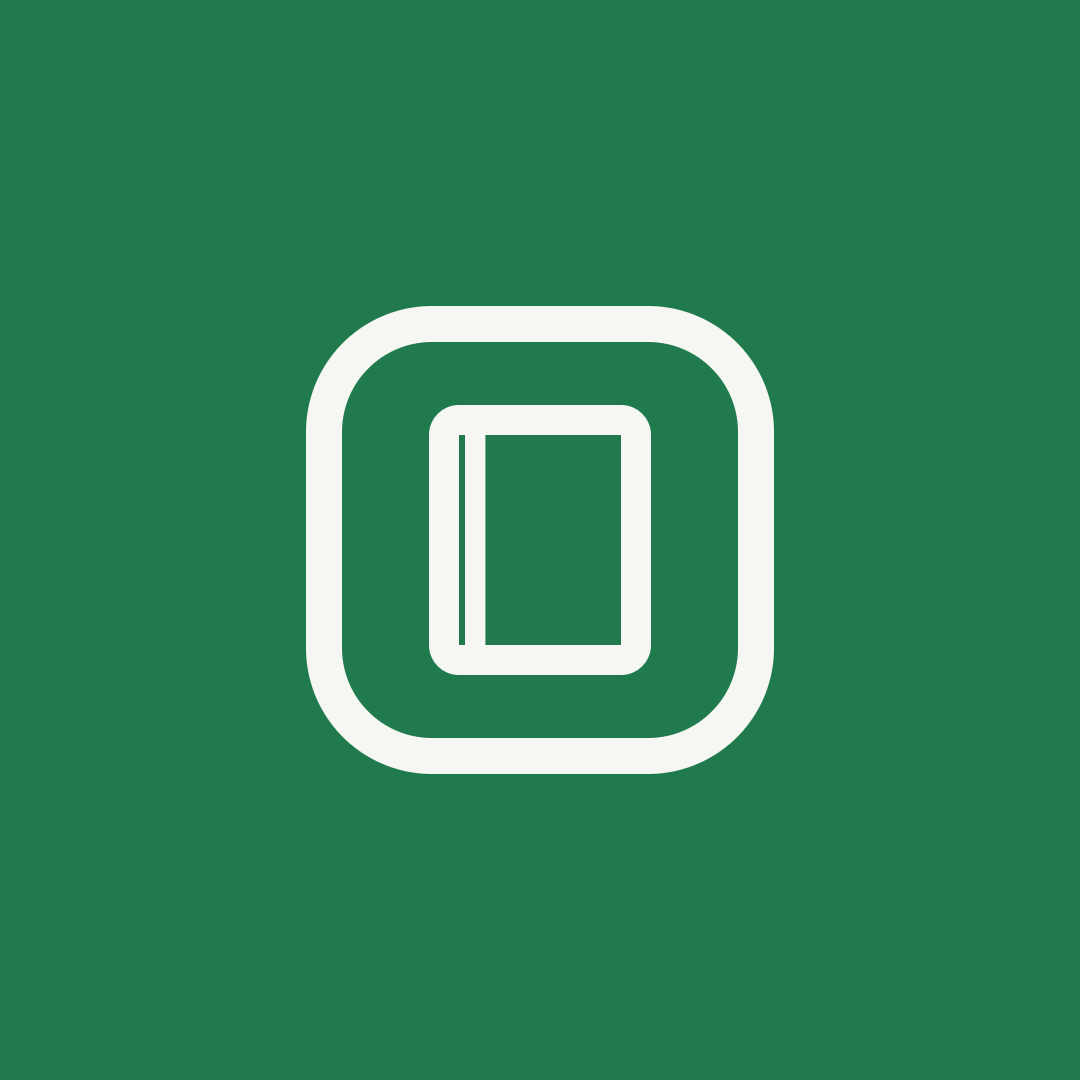
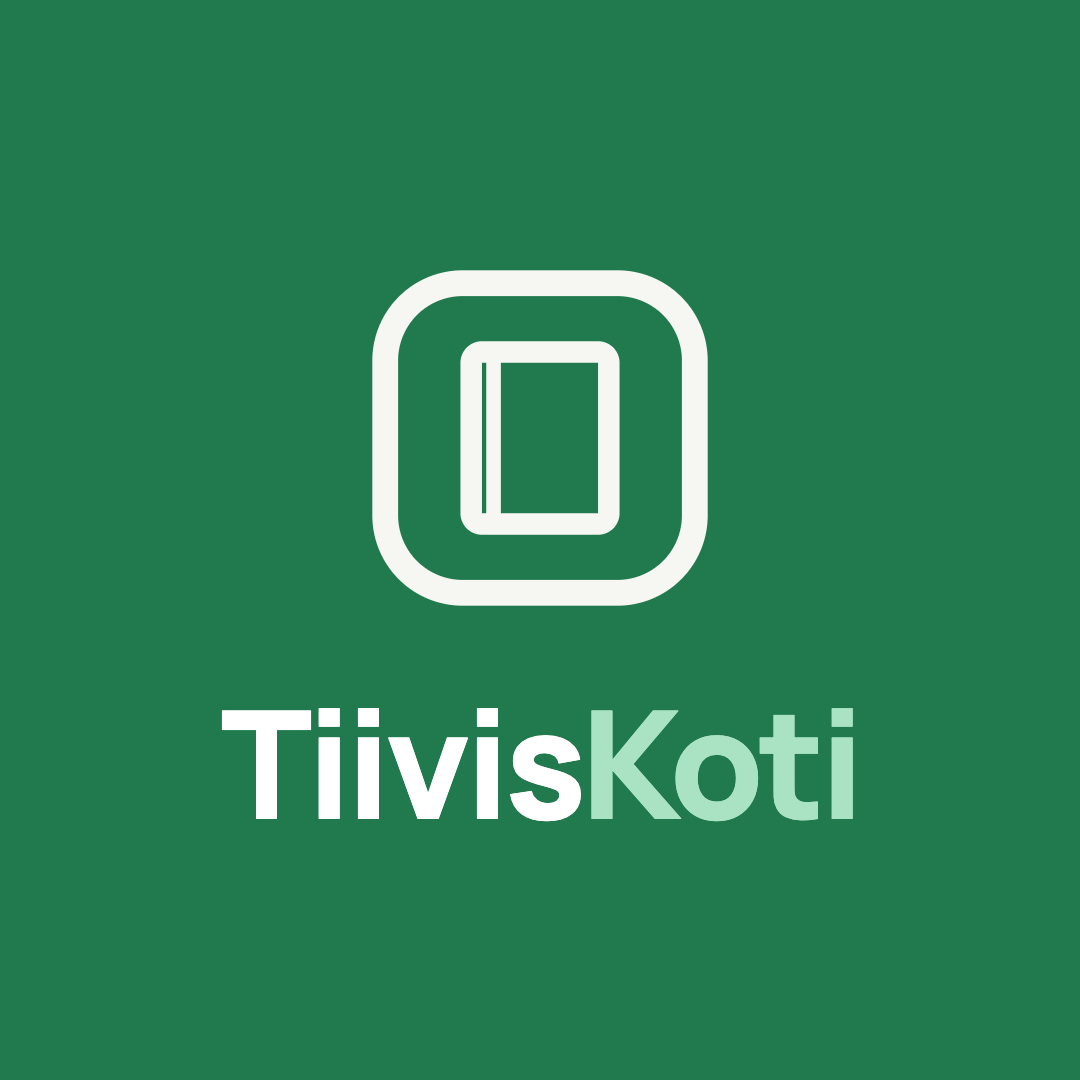
Facebook: uusi kansikuva ja profiilikuva
Kansikuva: porukka kirkkaana oikealla (vanha peitti kuvan 80–93 % tummennuksella),
teksti omalla paneelilla, hinnat ajan tasalle (ikkuna alk. 75 €, ulko-ovi 99 €)
ja uusi numero 045 7831 1972. Profiilikuva: merkki + TiivisKoti-nimi alla Manropella.

Changed region(s): [[0.1833, 0.2444, 0.7944, 0.7639]]

diff --git a/tiiviskoti/brand/ads/fb-profiili.html b/tiiviskoti/brand/ads/fb-profiili.html
@@ -37,45 +37,50 @@
 body{background:#8f9a92;font-family:Manrope,system-ui,sans-serif;
   display:flex;flex-direction:column;gap:36px;padding:36px;align-items:flex-start}
 
-/* ---------- PROFIILIKUVA ---------- */
-#fb-profiili{width:1080px;height:1080px;background:var(--green);
-  display:flex;align-items:center;justify-content:center;flex:none}
-#fb-profiili svg{width:600px;height:600px;display:block}
+/* ---------- PROFIILIKUVA ----------
+   14.10.2026 Josua: nimi logon alle meidän fontilla (vrt. AaltoAirin logo).
+   Kaikki pysyy ympyrän sisään piirretyn neliön (≈70 %) sisällä. */
+#fb-profiili{width:1080px;height:1080px;background:var(--green);flex:none;
+  display:flex;flex-direction:column;align-items:center;justify-content:center;gap:34px}
+#fb-profiili svg{width:430px;height:430px;display:block;margin-top:-20px}
+#fb-profiili .wm{font-size:150px;font-weight:800;letter-spacing:-.035em;line-height:1;color:#fff}
+#fb-profiili .wm i{font-style:normal;color:#A9E3C3}
 
 /* ympyrärajauksen apuviiva — ei renderöidy PNG:hen, vain esikatseluun */
 .guide{position:absolute;inset:0;border-radius:50%;
   border:2px dashed rgba(255,255,255,.35);pointer-events:none}
 .wrapguide{position:relative;flex:none}
 
-/* ---------- KANSIKUVA ---------- */
-#fb-kansikuva{width:1640px;height:856px;position:relative;overflow:hidden;
-  background:var(--deep);flex:none;display:flex;align-items:center;justify-content:center}
-#fb-kansikuva .photo{position:absolute;inset:0;z-index:0}
-#fb-kansikuva .photo img{width:100%;height:100%;object-fit:cover;object-position:50% 42%}
-#fb-kansikuva .scrim{position:absolute;inset:0;z-index:1;
-  background:linear-gradient(180deg,rgba(22,58,40,.86) 0%,rgba(22,58,40,.80) 45%,rgba(22,58,40,.93) 100%)}
+/* ---------- KANSIKUVA ----------
+   14.10.2026: porukka näkyviin. Vanha versio peitti kuvan 80–93 %:n
+   tummennuksella, jolloin kansikuva oli käytännössä vihreä tekstilaatta.
+   Nyt kuva on kirkkaana oikealla ja teksti omalla paneelillaan vasemmalla.
+   Teksti alkaa vasta x≈150:stä (puhelin rajaa reunoja) ja paneelin alaosa
+   on tyhjä, koska työpöydällä profiilikuva peittää vasemman alakulman. */
+#fb-kansikuva{width:1640px;height:856px;position:relative;overflow:hidden;background:var(--deep);flex:none}
+#fb-kansikuva .photo{position:absolute;top:0;right:0;bottom:0;width:1080px}
+#fb-kansikuva .photo img{width:100%;height:100%;object-fit:cover;object-position:62% 40%;display:block}
+#fb-kansikuva .fade{position:absolute;top:0;bottom:0;left:560px;width:260px;
+  background:linear-gradient(90deg,var(--deep) 0%,rgba(22,58,40,.75) 40%,rgba(22,58,40,0) 100%)}
+#fb-kansikuva .panel{position:absolute;left:150px;top:118px;width:560px;
+  display:flex;flex-direction:column;align-items:flex-start}
 
-/* puhelimen näyttämä turva-alue: keskimmäiset 75 % */
-.safe{position:relative;z-index:2;width:75%;text-align:center;
-  display:flex;flex-direction:column;align-items:center;
-  padding-bottom:56px}   /* alalaita tyhjäksi profiilikuvan alle */
+.lockup{display:flex;align-items:center;gap:16px;margin-bottom:46px}
+.lockup svg{width:60px;height:60px;display:block}
+.lockup span{font-size:40px;font-weight:800;color:#fff;letter-spacing:-.02em}
+.lockup span i{font-style:normal;color:#A9E3C3}
 
-.lockup{display:flex;align-items:center;gap:18px;margin-bottom:30px}
-.lockup svg{width:66px;height:66px;display:block}
-.lockup span{font-size:44px;font-weight:800;color:#fff;letter-spacing:-.02em}
-.lockup span i{font-style:normal;color:var(--green-l)}
+#fb-kansikuva h1{font-size:76px;font-weight:800;color:#fff;line-height:1.02;
+  letter-spacing:-.035em;margin-bottom:22px}
+#fb-kansikuva h1 em{font-style:normal;color:#A9E3C3}
+#fb-kansikuva .tag{font-size:27px;font-weight:600;color:var(--dtext);line-height:1.4;margin-bottom:30px}
 
-#fb-kansikuva h1{font-size:82px;font-weight:800;color:#fff;line-height:1.04;
-  letter-spacing:-.03em;margin-bottom:22px}
-#fb-kansikuva .tag{font-size:30px;font-weight:500;color:var(--dtext);margin-bottom:26px}
-
-.facts{display:flex;align-items:center;gap:18px;margin-bottom:28px}
-.fact{background:rgba(255,255,255,.12);border:1px solid rgba(255,255,255,.24);
-  border-radius:99px;padding:12px 26px;font-size:26px;font-weight:700;color:#fff}
-.contactline{display:flex;align-items:center;gap:24px;font-size:34px;font-weight:800}
+.facts{display:flex;flex-wrap:wrap;gap:12px;margin-bottom:34px}
+.fact{background:rgba(255,255,255,.10);border:1px solid rgba(255,255,255,.22);
+  border-radius:99px;padding:10px 22px;font-size:24px;font-weight:700;color:#fff}
+.contactline{display:flex;flex-direction:column;gap:6px;font-size:32px;font-weight:800}
 .contactline .dom{color:#fff}
-.contactline .dot{color:rgba(255,255,255,.4)}
-.contactline .tel{color:#8FD3AC}
+.contactline .tel{color:#A9E3C3}
 </style>
 </head>
 <body>
@@ -88,6 +93,7 @@ body{background:#8f9a92;font-family:Manrope,system-ui,sans-serif;
       <rect x="34" y="30" width="32" height="40" rx="2.5" fill="none" stroke="#F6F7F3" stroke-width="5"/>
       <rect x="37.5" y="30" width="3.4" height="40" fill="#F6F7F3"/>
     </svg>
+    <div class="wm">Tiivis<i>Koti</i></div>
   </div>
   <div class="guide"></div>
 </div>
@@ -95,22 +101,20 @@ body{background:#8f9a92;font-family:Manrope,system-ui,sans-serif;
 <!-- ============ KANSIKUVA 1640 × 856 ============ -->
 <div id="fb-kansikuva">
   <div class="photo"><img src="../kuvat/fb-kansi-photo.jpg" alt=""></div>
-  <div class="scrim"></div>
-  <div class="safe">
+  <div class="fade"></div>
+  <div class="panel">
     <div class="lockup">
       <svg viewBox="0 0 100 100" aria-hidden="true"><rect width="100" height="100" rx="22" fill="#2E9E63"/><rect x="31" y="20" width="38" height="60" rx="3" fill="none" stroke="#F6F7F3" stroke-width="5"/><rect x="35" y="20" width="4" height="60" fill="#F6F7F3"/></svg>
       <span>Tiivis<i>Koti</i></span>
     </div>
-    <h1>Vedoton koti. Lämpö sisällä.</h1>
-    <p class="tag">Ovien ja ikkunoiden tiivistevaihto · koko Uusimaa</p>
+    <h1>Ovien ja ikkunoiden <em>tiivistys</em></h1>
+    <p class="tag">Kiinteä hinta · oma porukka · koko Uusimaa</p>
     <div class="facts">
-      <span class="fact">75–90 € / ikkuna</span>
-      <span class="fact">99 € / ovi</span>
-      <span class="fact">Oma porukka</span>
+      <span class="fact">Ikkuna alk. 75 €</span>
+      <span class="fact">Ulko-ovi 99 €</span>
     </div>
     <div class="contactline">
       <span class="dom">tiiviskoti.fi</span>
-      <span class="dot">·</span>
       <span class="tel">045 7831 1972</span>
     </div>
   </div>
